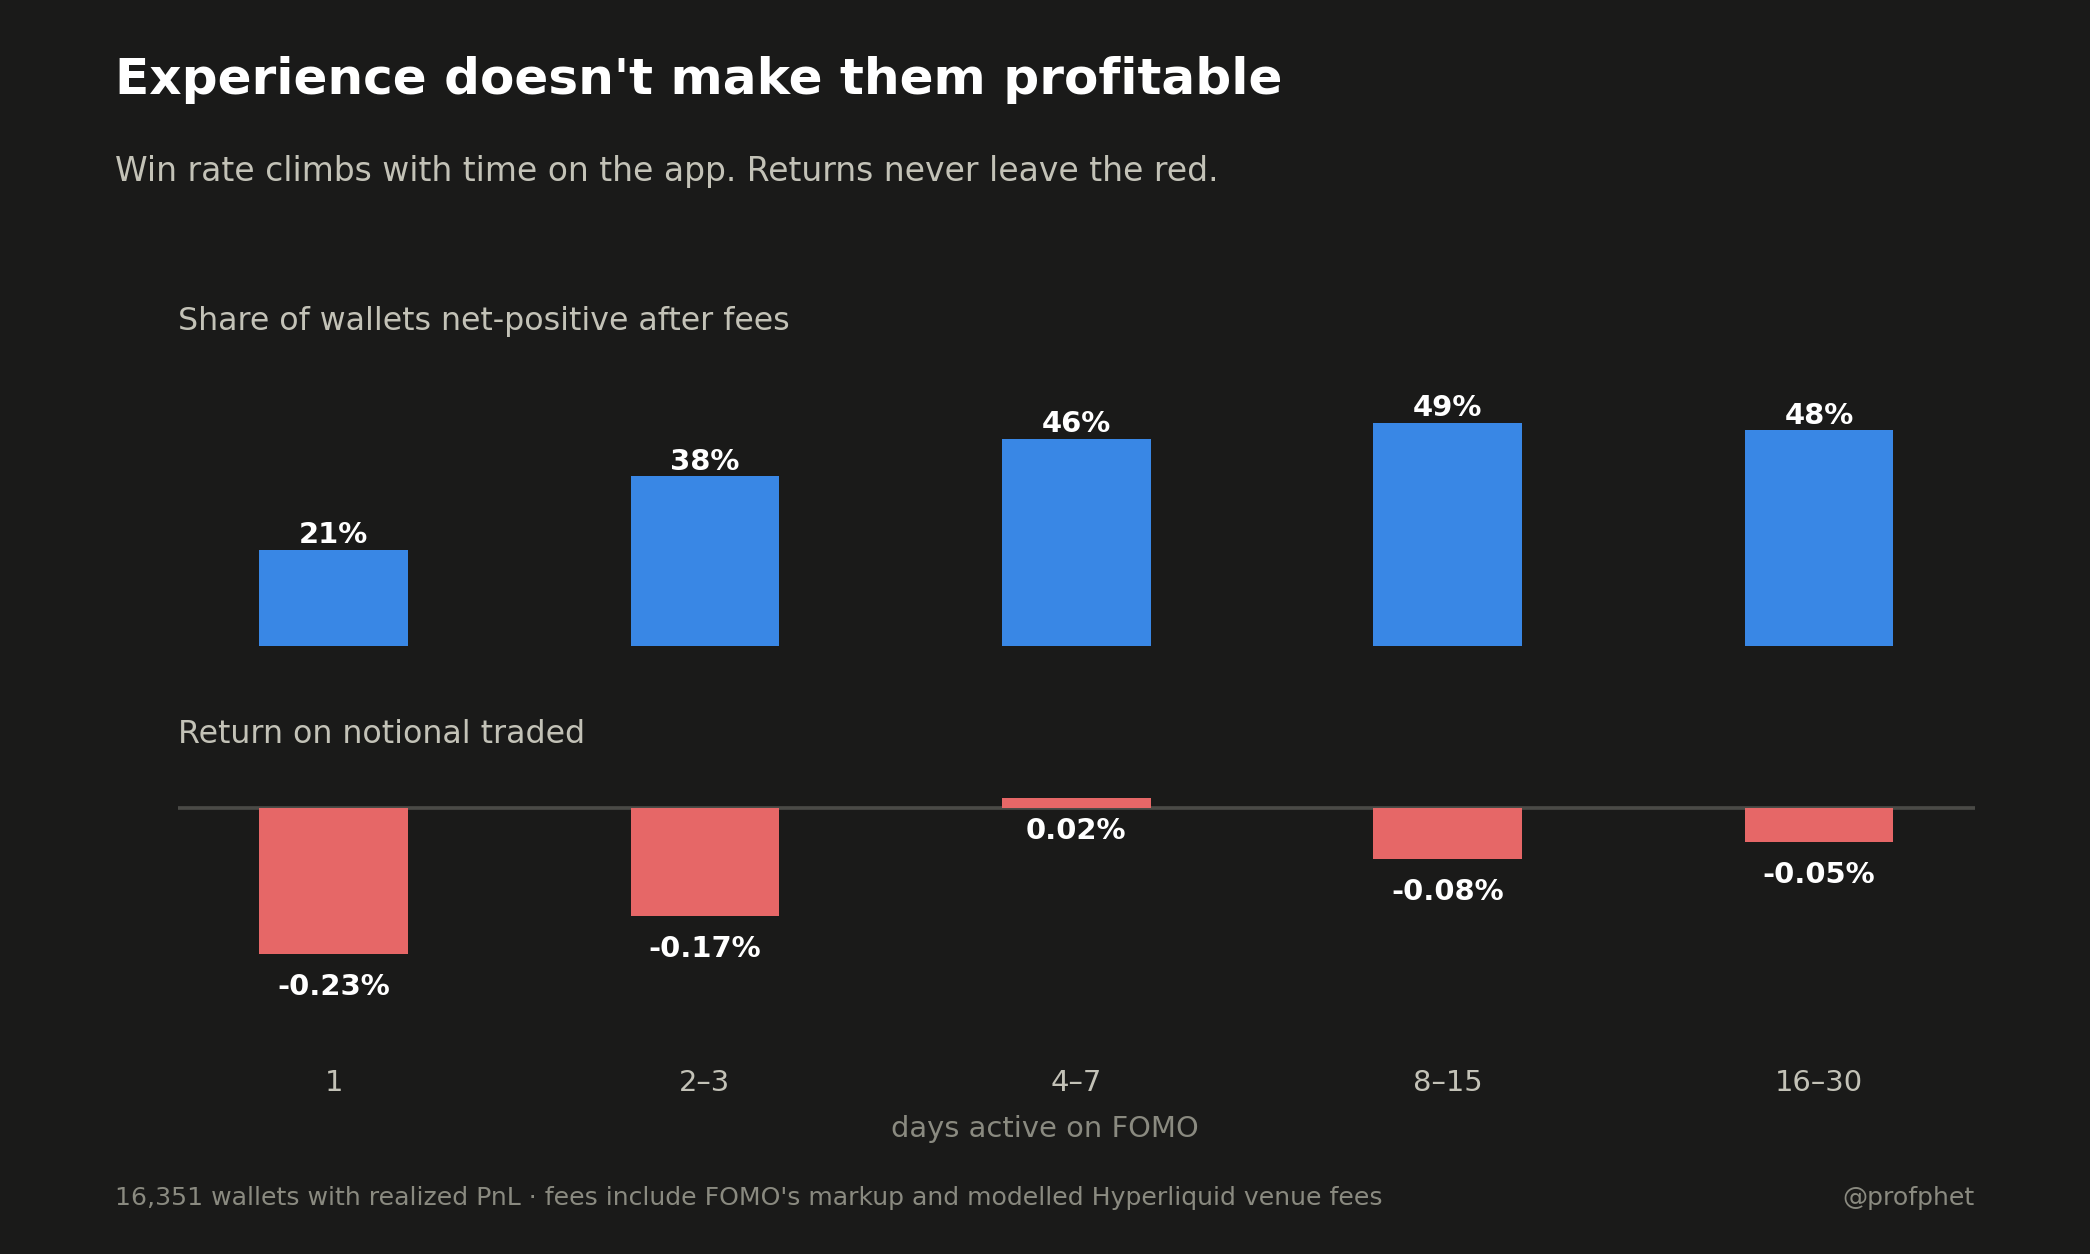
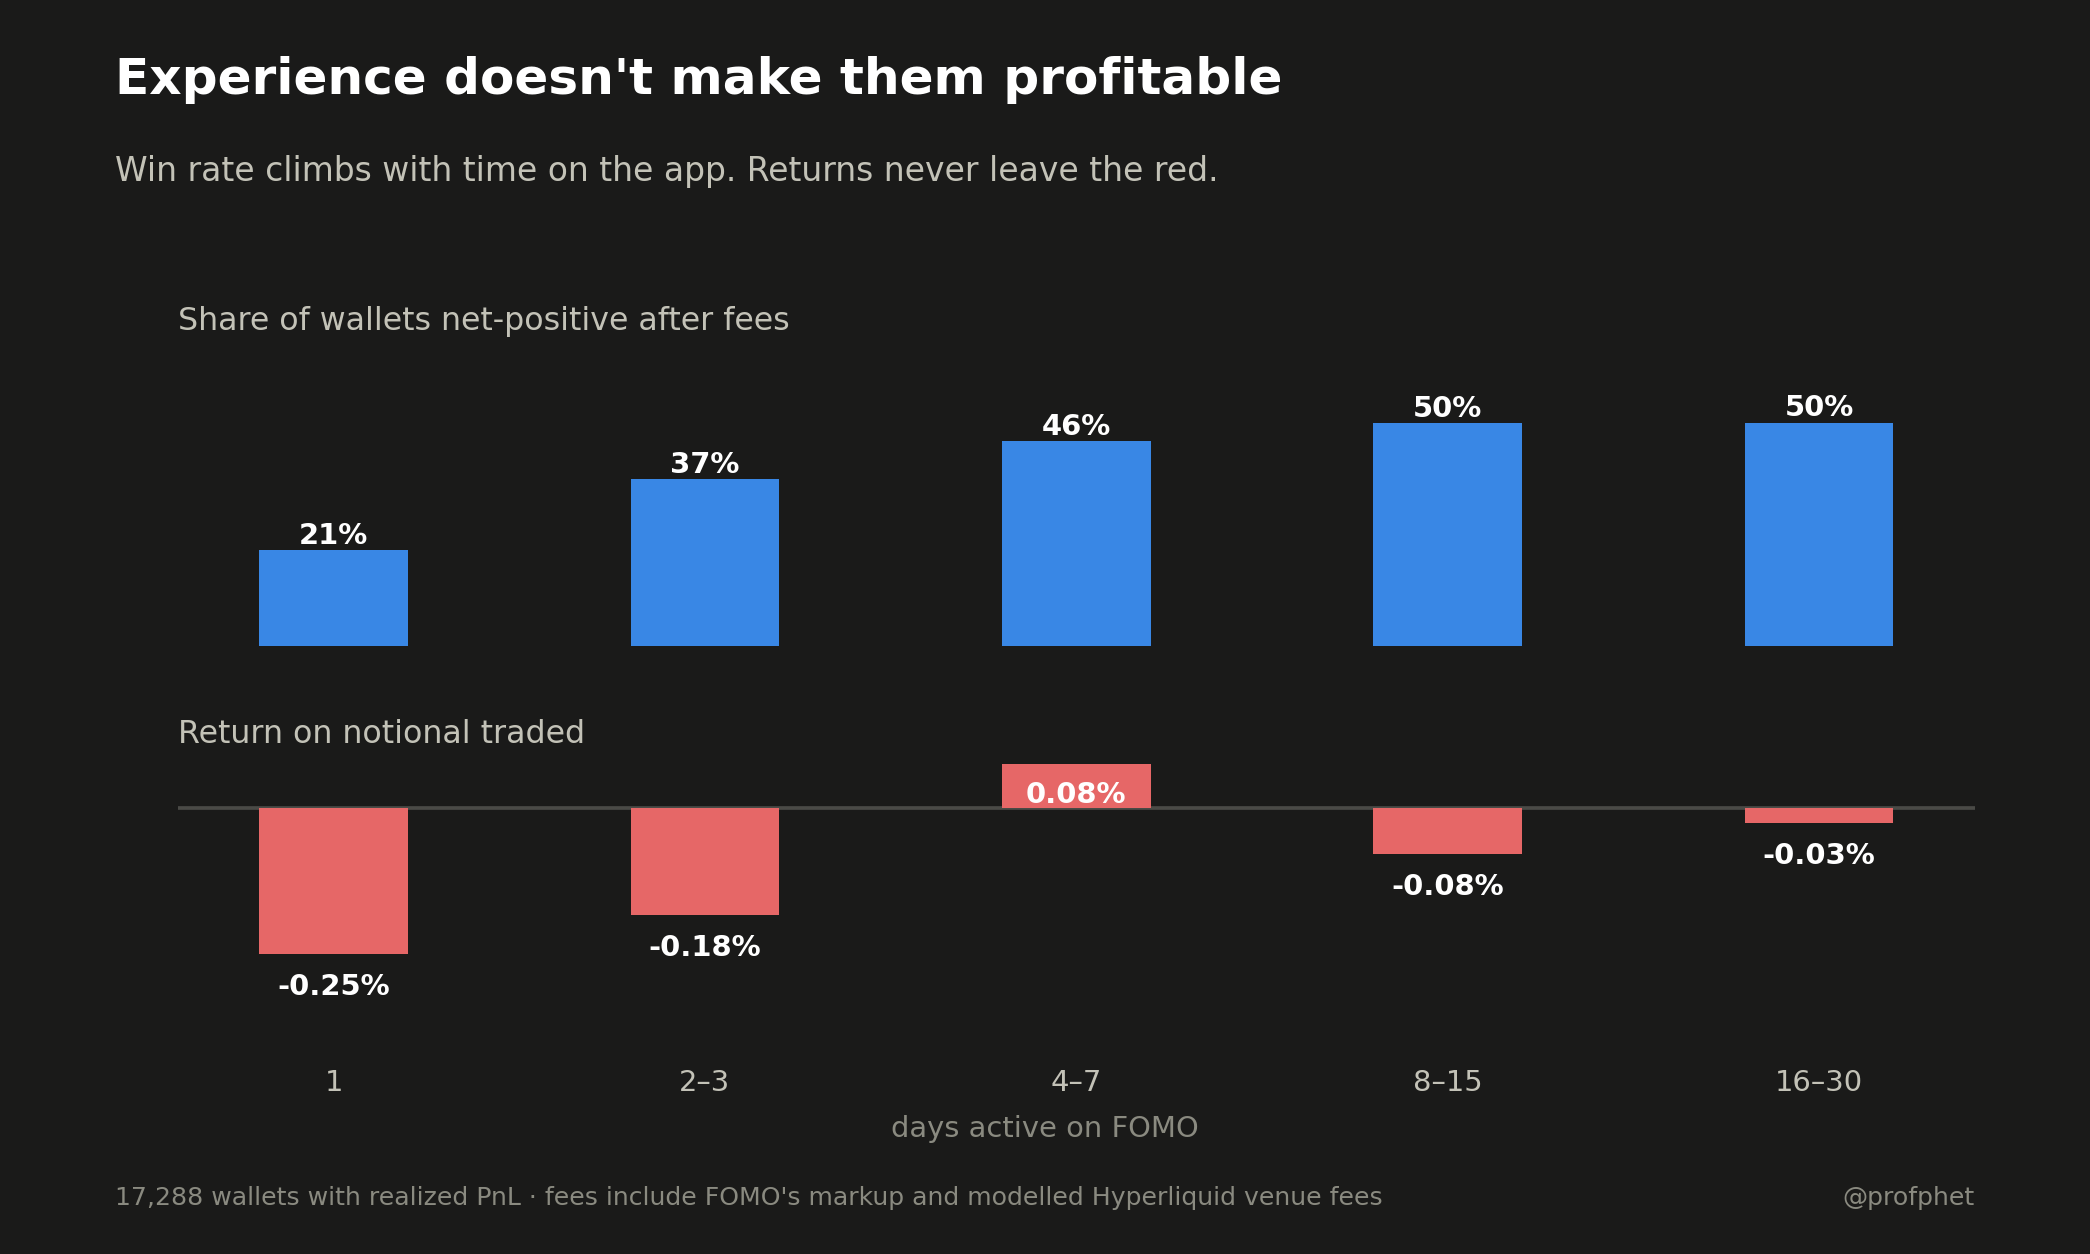
Refresh through 2026-08-27
Corpus at 766,931 fills / 18,979 wallets. Trading PnL has kept climbing
($1,027,682) while fees grew with it ($1,655,154), so the ratio eased
from 1.9x to 1.6x but the direction is unchanged: fees still exceed
what the cohort makes from trading.

Charts regenerated; all labels derive from the database.

diff --git a/README.md b/README.md
@@ -8,21 +8,20 @@ RPC. **Nothing touches fomo.family's servers.** No API key is required for any o
 
 ## What it found
 
-Across **725,603 perpetuals fills** (17,962 wallets, 2026-06-05 → 08-25) and **5,882
+Across **766,931 perpetuals fills** (18,979 wallets, 2026-06-05 → 08-27) and **5,882
 Solana spot trades**:
 
 - **They are not losing to the market. They are losing to the toll.** Traders made
-  **$839,776 from actual trading** and paid **$1,589,442 in fees** — fees are **1.9×
-  their trading profit**. The cohort is down $749,665. Only 33.5% finish ahead.
-- **98.5% of fills cross the spread.** Limit orders are 2% of activity.
-- **43.1% of wallets traded on exactly one day** and never came back. Of those old
-  enough to churn, 23.4% were still trading at the end.
+  **$1,027,682 from actual trading** and paid **$1,655,154 in fees** — fees are **1.6×
+  their trading profit**. The cohort is down $627,473. Only about a third finish ahead.
+- **98.4% of fills cross the spread.** Limit orders are ~2% of activity.
+- **42.2% of wallets traded on exactly one day** and never came back.
 - **The advertised fee rate is a default, not a price.** It is a per-account setting
   that gets granted *and revoked* by hand — 2 grants and 26 revocations observed on
   perps; every long-history spot account observed repriced. No volume threshold:
   accounts lost a discount after $997 of trading and kept it past $5M.
-- **Discounted accounts are 0.6% of wallets and 40% of the top 10 by PnL** — roughly
-  60× overrepresented. (Correlation; the discount likely follows size rather than
+- **Discounted accounts are 0.5% of wallets and 40% of the top 10 by PnL** — roughly
+  80× overrepresented. (Correlation; the discount likely follows size rather than
   causing profitability.)
 - **Spot pricing is regressive.** Trades under $5 pay a median **82%** in fees against
   the advertised 0.50%, because of the flat minimum. 53% of spot volume is discounted,
